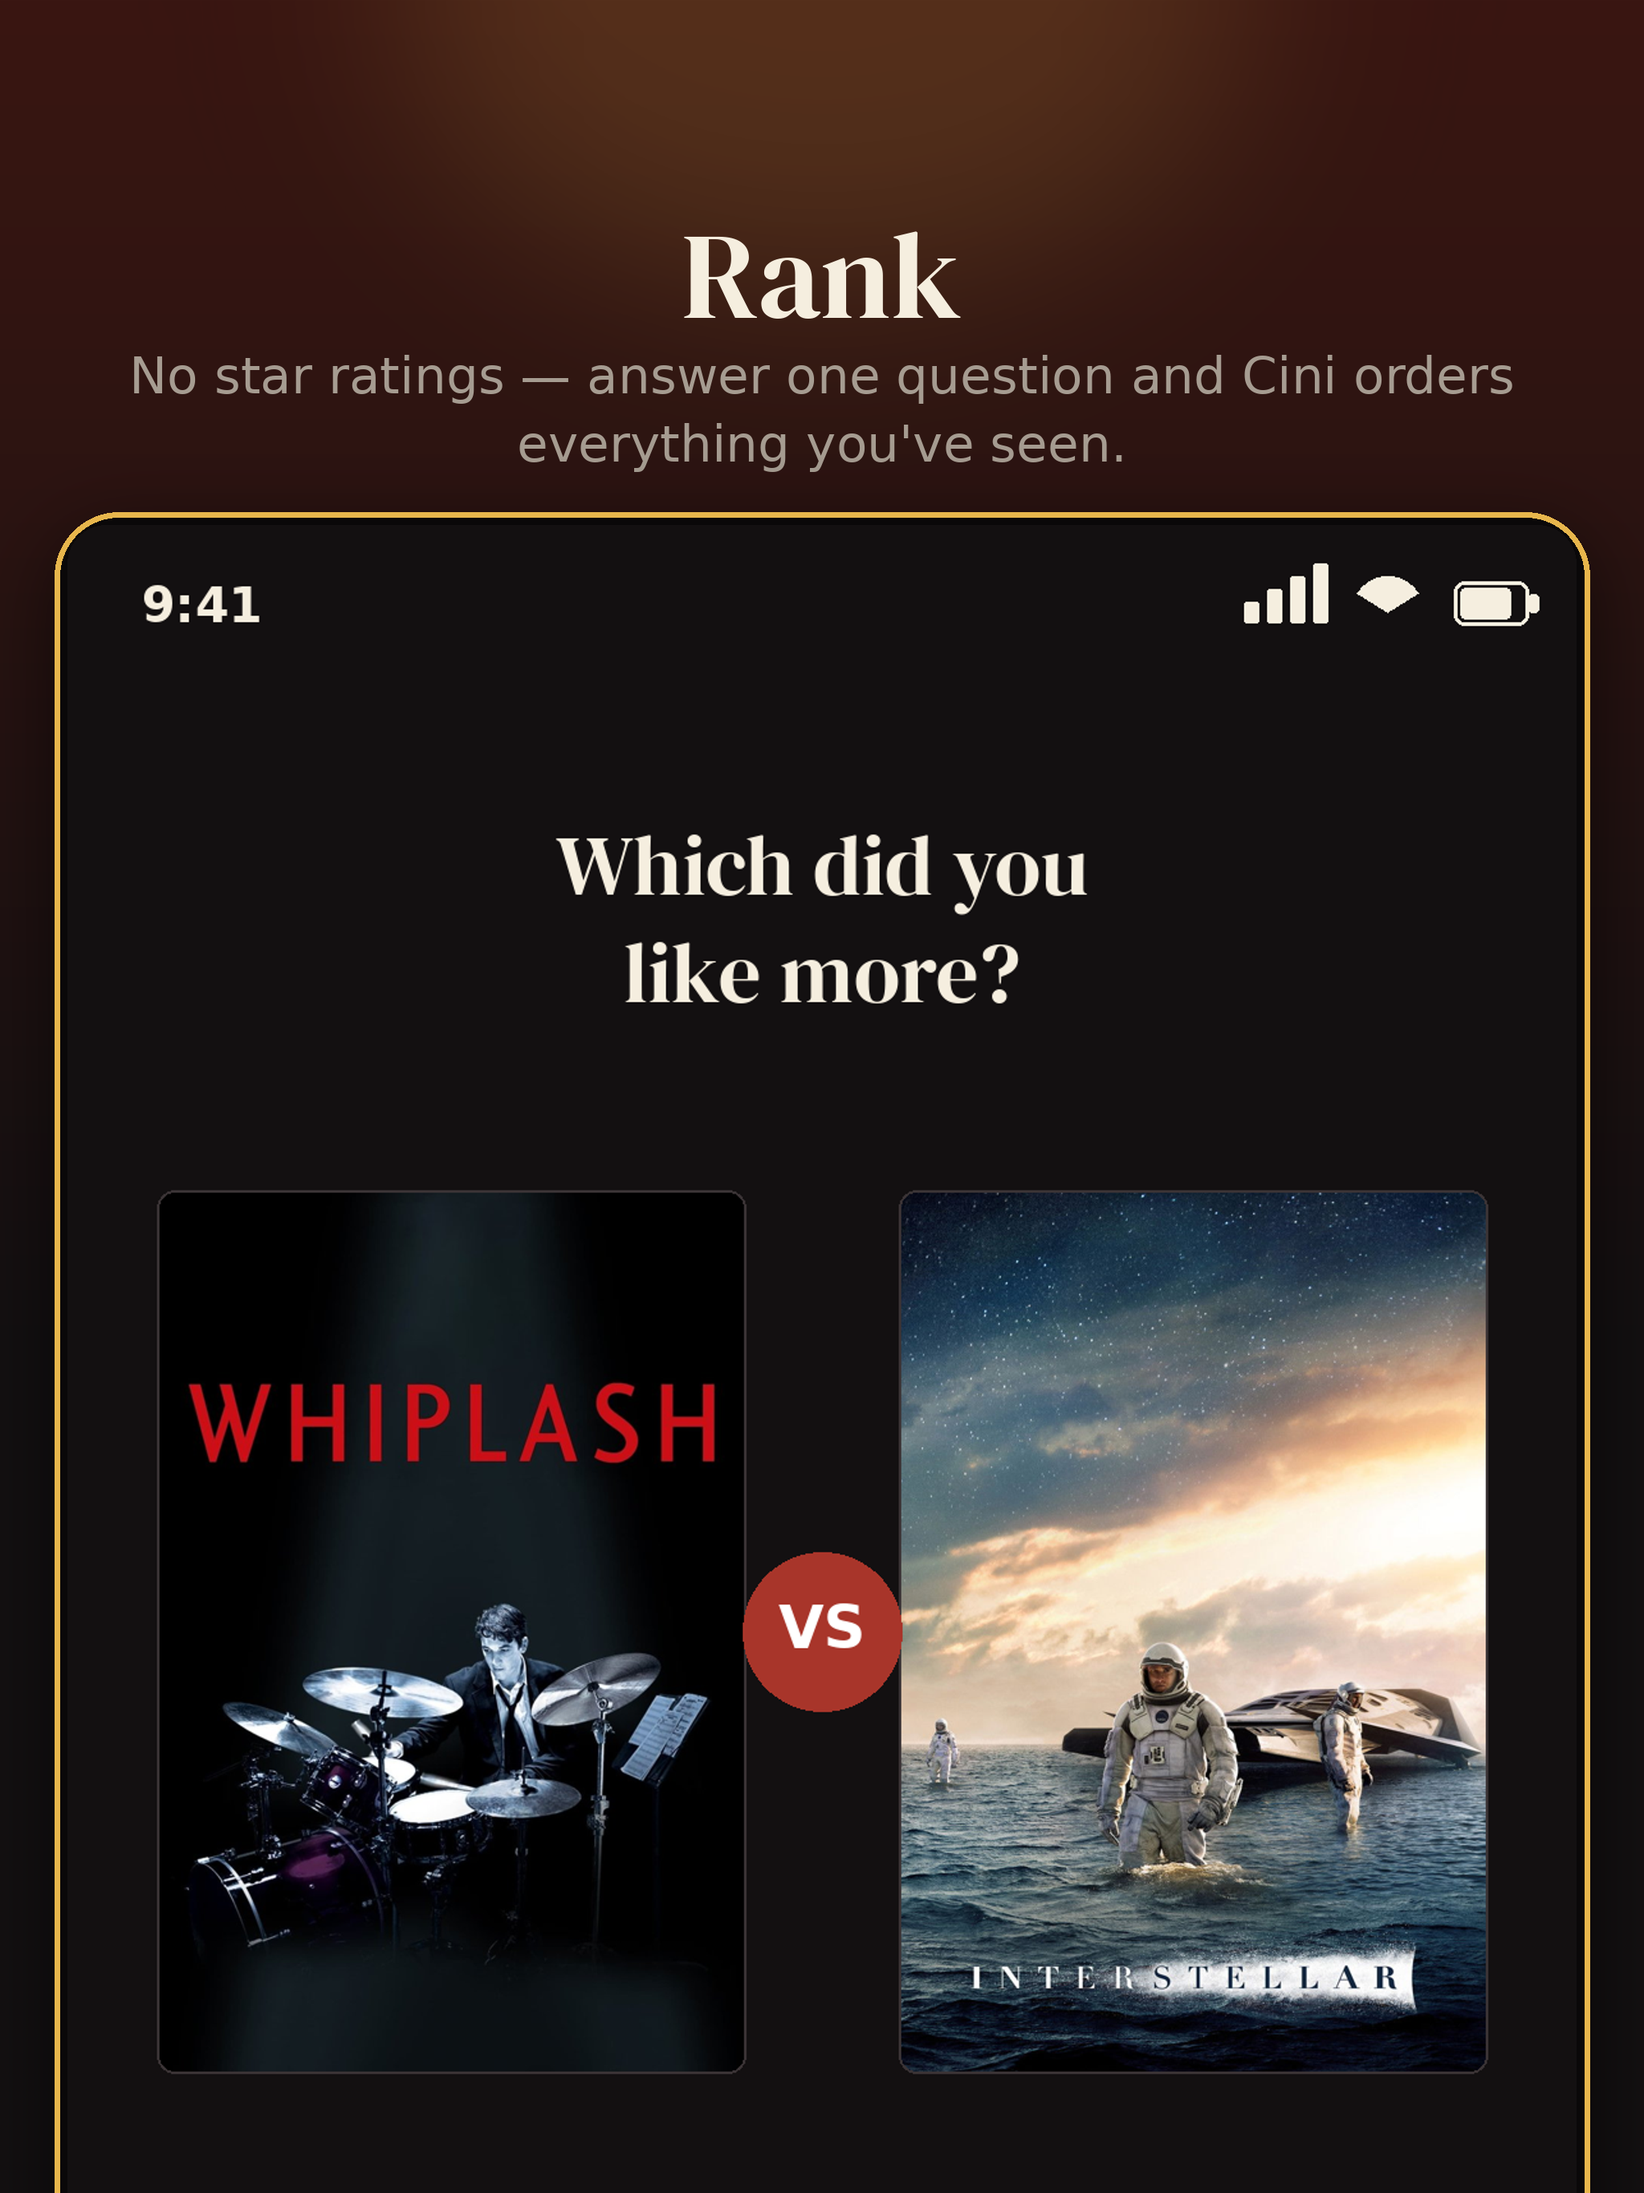
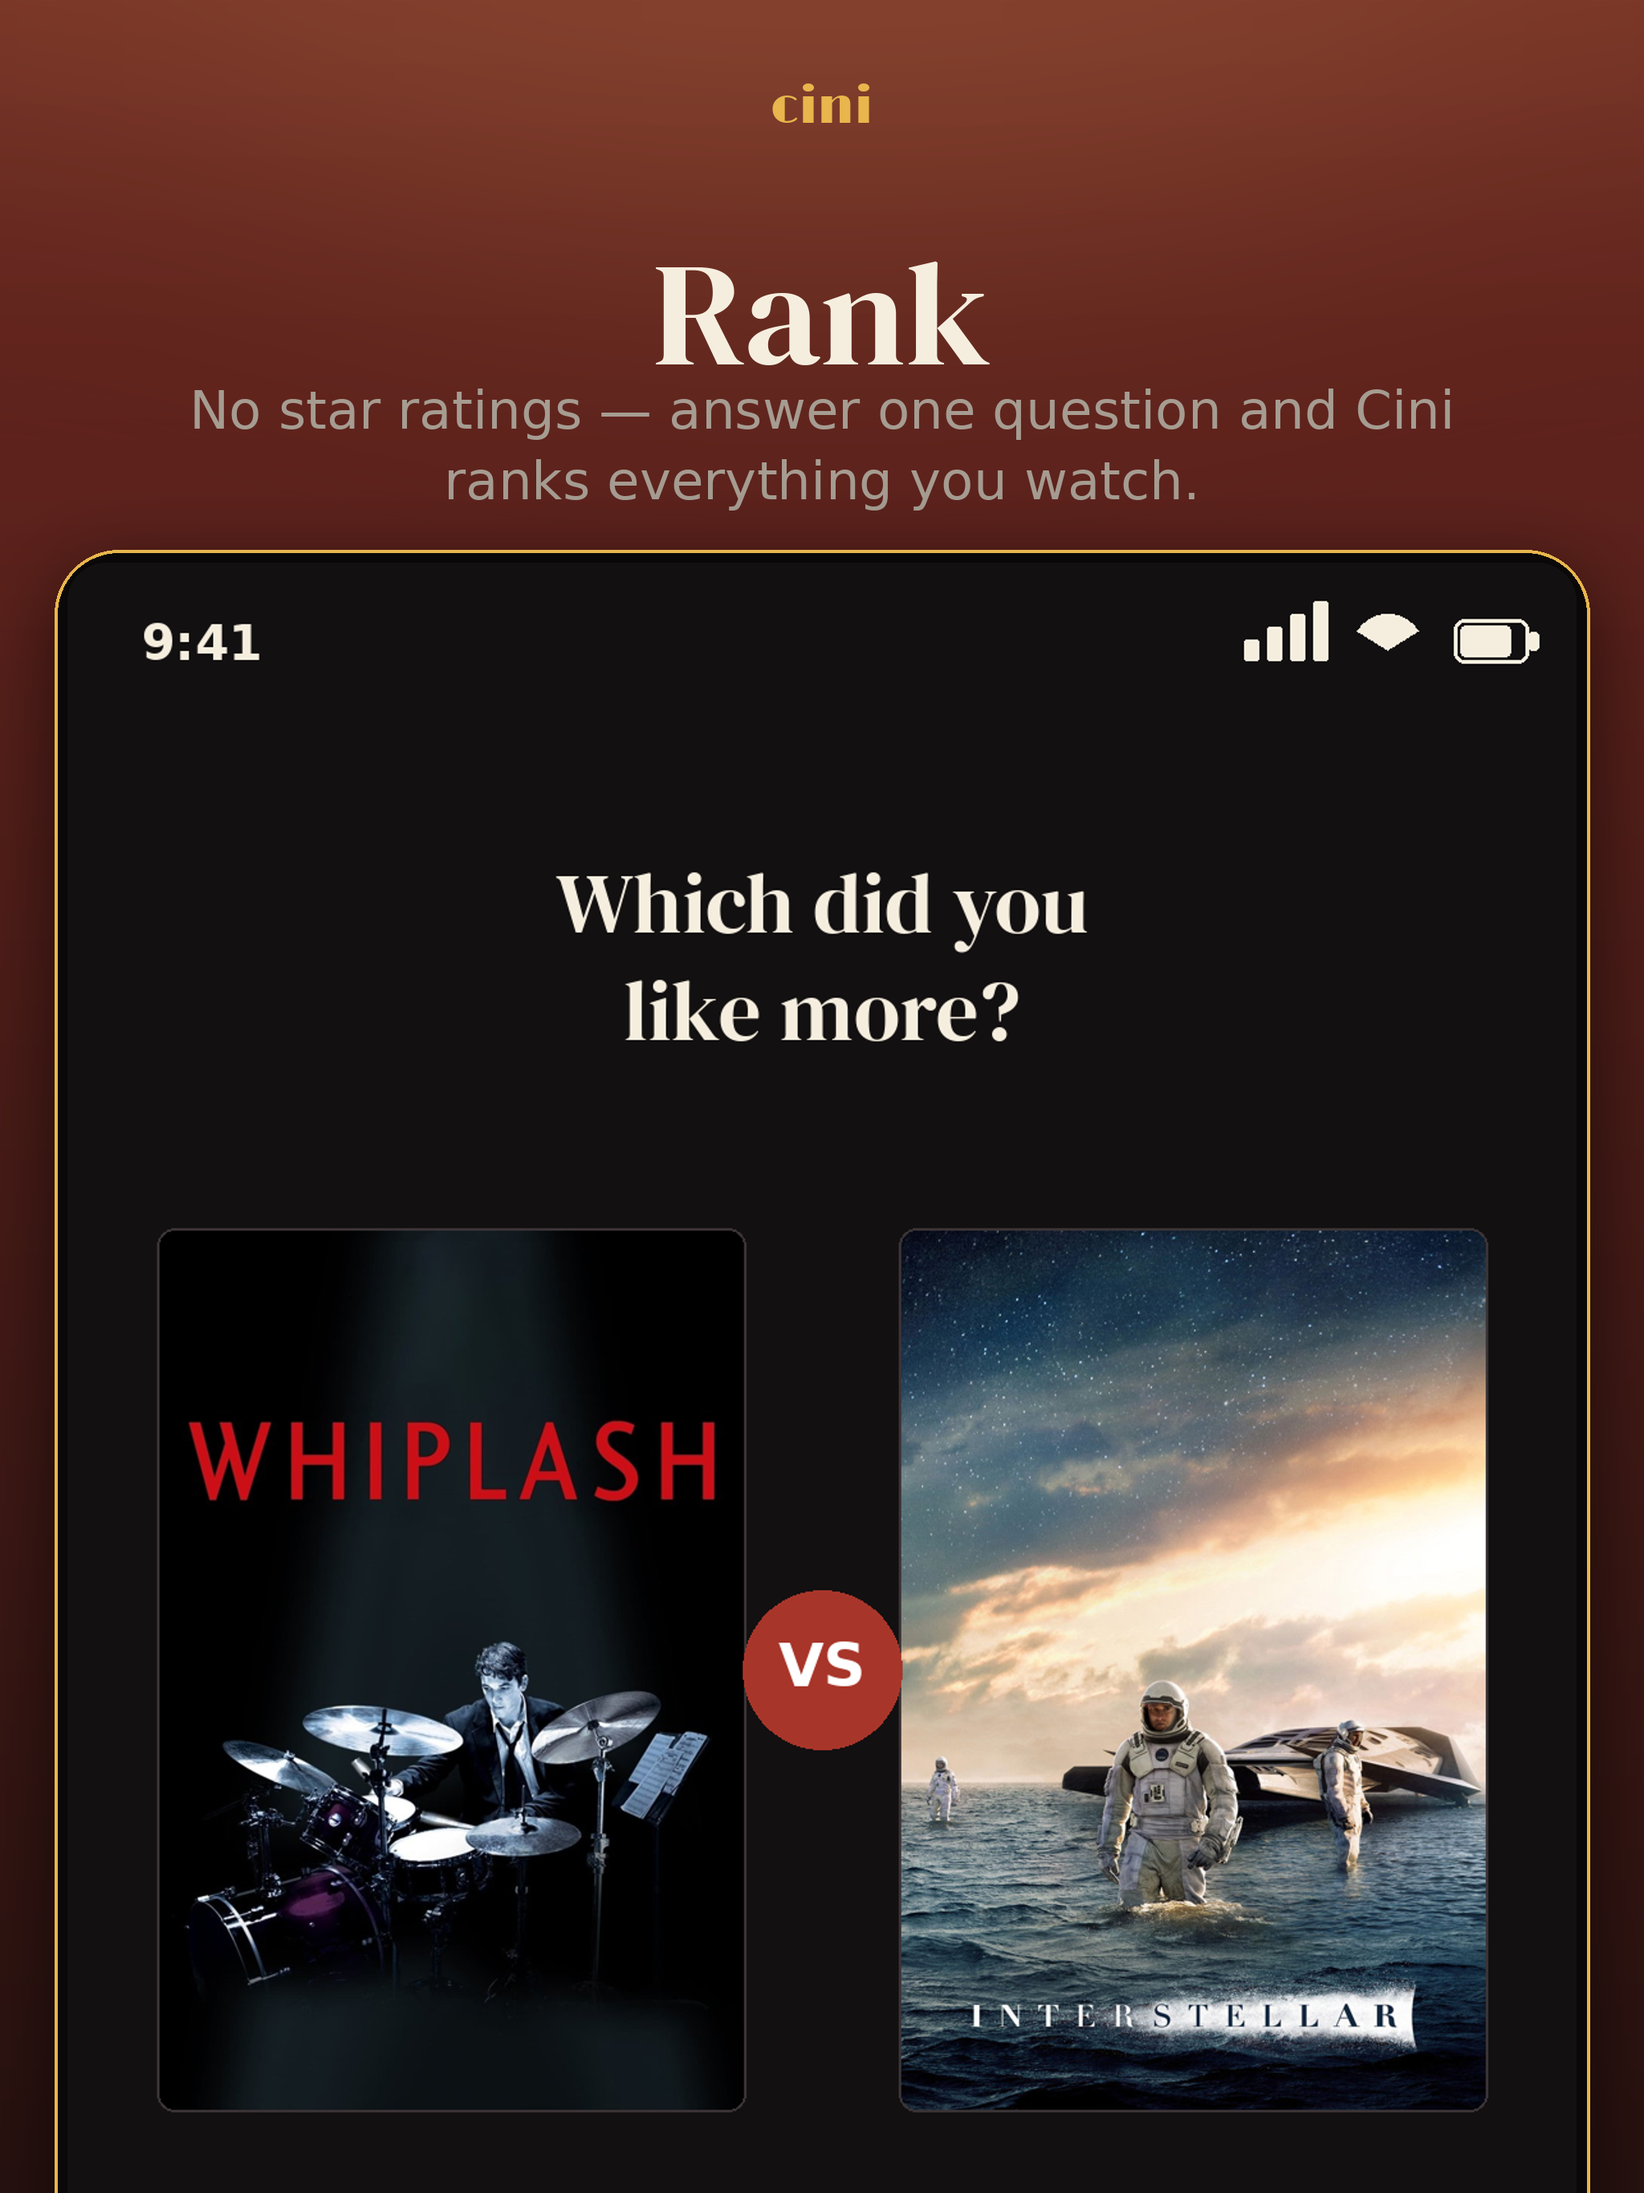
Optimize App Store screenshots for clarity + brand (iPhone + iPad)
- Fix the core weakness: the dark app UI was lost on a near-black background.
  Backgrounds now stay a rich warm brand tone (same hue, not fading to black)
  so the near-black phone separates and pops.
- Add a clean 'cini' wordmark signature, bolder one-word headers, clearer
  benefit sublines (Rank/Scored/Friends/Discover), and a thinner gold rim.
- Beli-style cropped close-up retained; every frame is product-focused.

diff --git a/docs/appstore/generate.py b/docs/appstore/generate.py
@@ -78,26 +78,28 @@ def wrap(d, t, f, maxw):
 
 # Per-screen branded backdrops — distinct warm cinema tones (top), settling
 # into the house-lights-down charcoal. Cohesive with the marquee palette.
+# Rich warm tops; the base stays a tinted dark of the SAME hue (never pure
+# black) so the app's near-black UI separates cleanly against it.
 BACKDROPS = {
-    "velvet": (0x3a, 0x16, 0x12),
-    "gold":   (0x39, 0x2b, 0x10),
-    "plum":   (0x2c, 0x16, 0x30),
-    "bronze": (0x33, 0x24, 0x12),
-    "ember":  (0x3a, 0x1d, 0x10),
+    "velvet": (0x6e, 0x27, 0x20),
+    "gold":   (0x6c, 0x4e, 0x1d),
+    "plum":   (0x45, 0x23, 0x4d),
+    "bronze": (0x61, 0x43, 0x20),
+    "ember":  (0x6e, 0x32, 0x1a),
 }
 def bg(accent="gold"):
     top = BACKDROPS.get(accent, BACKDROPS["gold"])
-    base = (0x13, 0x10, 0x11)
+    base = tuple(int(c*0.30)+7 for c in top)   # darker, same hue — not black
     img = Image.new("RGB",(W,H))
     d = ImageDraw.Draw(img)
     for y in range(H):
-        t = min(y/(H*0.62), 1.0)        # fade the tint out by ~60% down
+        t = y/H
         r=int(top[0]+(base[0]-top[0])*t); g=int(top[1]+(base[1]-top[1])*t); b=int(top[2]+(base[2]-top[2])*t)
         d.line([(0,y),(W,y)], fill=(r,g,b))
-    # soft marquee-gold glow up top, the brand signature
+    # soft warm glow up top, the brand signature
     glow = Image.new("RGBA",(W,H),(0,0,0,0))
-    ImageDraw.Draw(glow).ellipse([W/2-620,-420,W/2+620,460], fill=(232,182,76,40))
-    glow=glow.filter(ImageFilter.GaussianBlur(150))
+    ImageDraw.Draw(glow).ellipse([W/2-W*0.55,-H*0.14,W/2+W*0.55,H*0.16], fill=(255,205,120,44))
+    glow=glow.filter(ImageFilter.GaussianBlur(int(W*0.12)))
     img.paste(Image.alpha_composite(img.convert("RGBA"),glow).convert("RGB"),(0,0))
     return img
 
@@ -109,17 +111,19 @@ def bulbs(d, y, n=17):
         d.ellipse([x-3,y-3,x+3,y+3], fill="#fff7e0")
 
 def caption(d, headline, sub):
-    # Clean one-word header (no marquee bulbs — they read as clutter); scales
-    # with the canvas so iPad headers stay proportional.
+    # Small gold wordmark (brand signature, clean — no bulbs), then a big
+    # one-word header + a clear benefit subline. Scales with the canvas.
     k = W / 1290
-    y = int(150 * k)
-    hf = sf(int(96 * k))
-    for ln in wrap(d, headline, hf, W - int(150 * k)):
-        ctext(d, W/2, y, ln, hf, INK); y += int(110 * k)
-    y += int(12 * k)
-    sfont = sa(int(40 * k))
-    for ln in wrap(d, sub, sfont, W - int(200 * k)):
-        ctext(d, W/2, y, ln, sfont, GRAY); y += int(54 * k)
+    wm = disp(int(40 * k)); ww = d.textlength("cini", font=wm)
+    d.text((W/2 - ww/2, int(60 * k)), "cini", font=wm, fill=MARQUEE)
+    y = int(166 * k)
+    hf = sf(int(116 * k))
+    for ln in wrap(d, headline, hf, W - int(130 * k)):
+        ctext(d, W/2, y, ln, hf, INK); y += int(128 * k)
+    y += int(4 * k)
+    sfont = sa(int(42 * k))
+    for ln in wrap(d, sub, sfont, W - int(170 * k)):
+        ctext(d, W/2, y, ln, sfont, GRAY); y += int(56 * k)
     return y
 
 SCREEN = None  # set by phone(); poster() pastes onto this
@@ -138,8 +142,8 @@ def phone(top, draw_screen):
     BASE.paste(Image.alpha_composite(BASE.convert("RGBA"),sh).convert("RGB"),(0,0))
     d = ImageDraw.Draw(BASE)
     d.rounded_rectangle([x0-16,y0-16,x0+pw+16,y0+ph], radius=corner+16, fill="#0a0809")
-    # marquee-gold frame echoing the app icon's border
-    d.rounded_rectangle([x0-16,y0-16,x0+pw+16,y0+ph], radius=corner+16, outline=MARQUEE, width=7)
+    # thin marquee-gold rim — a brand accent, not a heavy frame (Beli-clean)
+    d.rounded_rectangle([x0-16,y0-16,x0+pw+16,y0+ph], radius=corner+16, outline=MARQUEE, width=4)
     # Render the screen on a 1180-wide logical canvas, then scale to device width.
     lw = 1180; lh = int(lw * ph / pw)
     screen = Image.new("RGB",(lw,lh),BG); SCREEN = screen
@@ -261,7 +265,7 @@ def s_compare(d, pw, ph):
         bx=cx-170+k*170; by=py+pwid*3//2+110
         d.ellipse([bx-38,by,bx+38,by+76], fill=c)
     ctext(d, cx, py+pwid*3//2+240, "A few quick taps — no scores to overthink.", sa(30), GRAY)
-SHOTS.append(("01-rank", "Rank", "No star ratings — answer one question and Cini orders everything you've seen.", s_compare, "velvet"))
+SHOTS.append(("01-rank", "Rank", "No star ratings — answer one question and Cini ranks everything you watch.", s_compare, "velvet"))
 
 # 3 — YOUR LISTS (segmented tabs + filter chips + ranked rows)
 def s_list(d, pw, ph):
@@ -290,7 +294,7 @@ def s_list(d, pw, ph):
         d.text((262, y+108), str(yr), font=sa(24), fill=GRAY)
         score_badge(d, pw-118, y+75, sc)
         y+=166
-SHOTS.append(("02-taste", "Taste", "Every title scored out of 10 — by you, not strangers.", s_list, "bronze"))
+SHOTS.append(("02-scored", "Scored", "Every title gets a 1–10 score from your own taste — not strangers.", s_list, "bronze"))
 
 # 4 — FEED (cini header, search, pills, friend cards)
 def s_feed(d, pw, ph):
